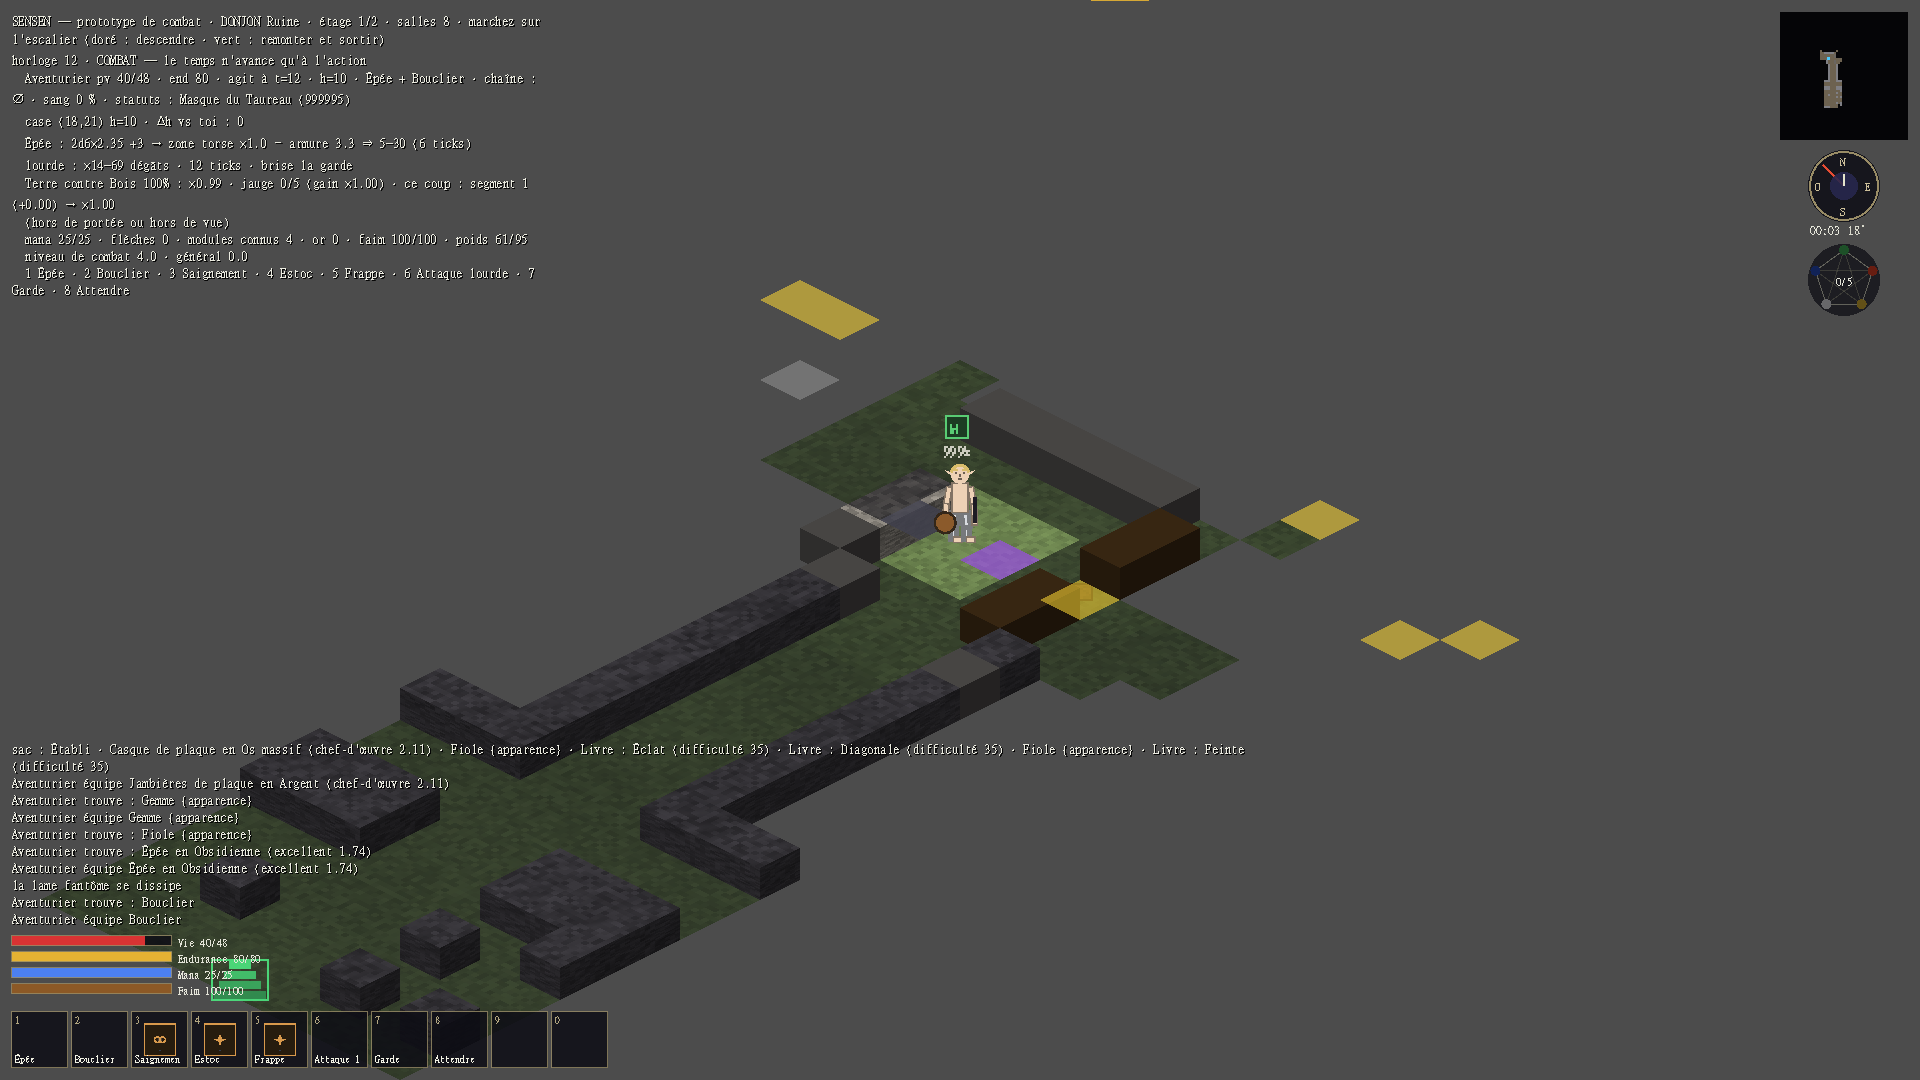
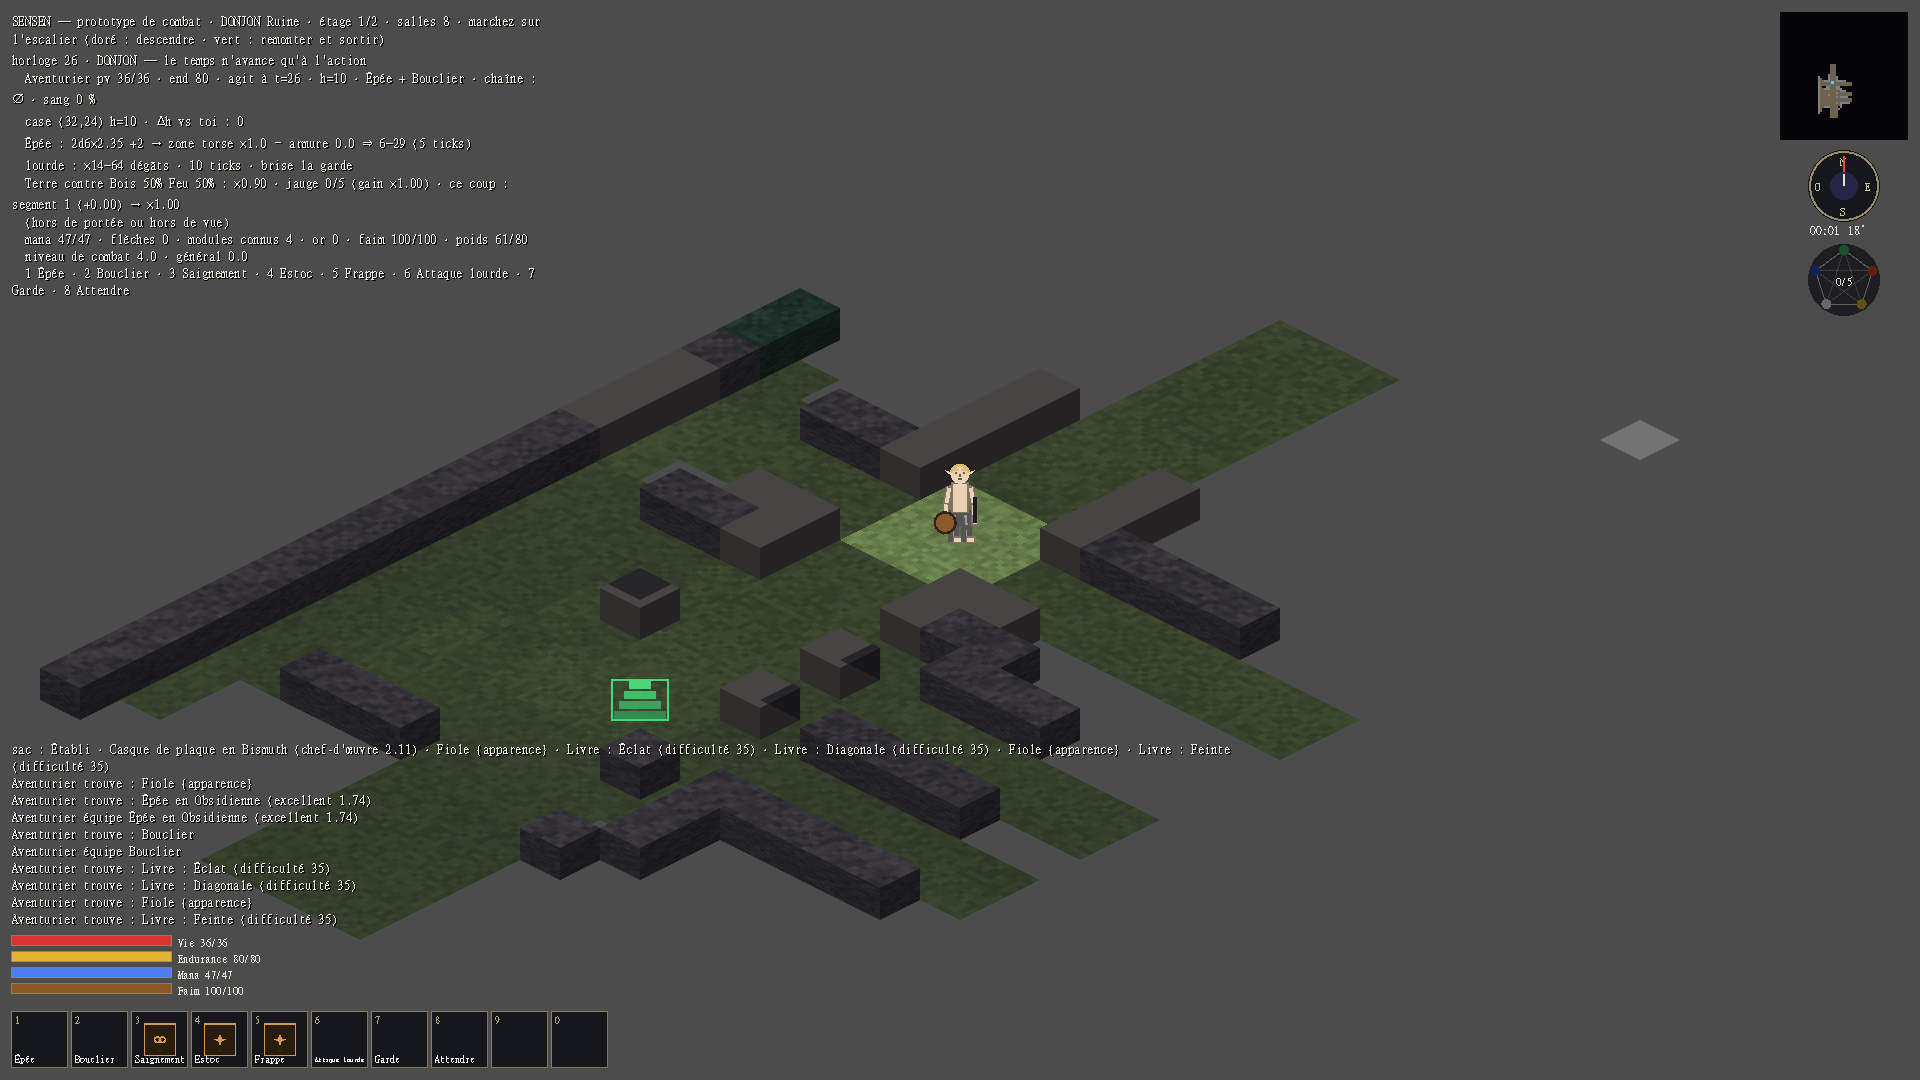
La hotbar coupait les noms a neuf caracteres : « Saignemen », « Attaque l »
Le commentaire de CASE promet qu'une case est assez large pour lire un
nom entier ; le dessin appelait nom.left(9). La police s'ajuste
maintenant a la largeur (10 vers 7) au lieu de couper le mot. Les trois
volets de la creation sont captures : ils laissent les deux tiers de
l'ecran vides, consigne dans A juger.

diff --git a/docs/08 - Technique/Écrans d'interface.md b/docs/08 - Technique/Écrans d'interface.md
@@ -126,6 +126,13 @@ Inventaire+équipement (avec poids), Craft (recettes des stations à portée, [[
 > **Instruction** : « refais toutes les captures d'écran, n'oublie pas remplir et équiper l'inventaire avant, pareil pour le composeur de sort, explorer avant la capture d'une cellule etc, qu'on voit le plus possible du jeu ». `capture.gd` gagne de quoi **jouer la scène** avant de la photographier : `--loot N` (assemble N objets et équipe ceux qui ont un slot), `--modules` (apprend tout le catalogue), `--sorts "forme,noyau|…"` (compose des capacités dans la barre), `--marcher N`, `--talents`, et surtout **`--graine N`** — les captures tombaient jusque-là dans un monde tiré au hasard à chaque lancement, ce qui explique le « village » qui n'en était pas un et la carte de cendres : `main.gd` respecte désormais une graine imposée au lieu de la réécrire. `--carte` est déplacé en toute fin de recette pour que la carte montre ce qui a été exploré, et `--village` cherche jusqu'à 70 cellules en exigeant **au moins quatre habitants**. Toutes les scènes de monde partagent la graine 4242 : même géographie d'une image à l'autre.
 
 
+> [!bug] Corrigé le 2026-09-01 — les noms de la hotbar étaient coupés à neuf caractères
+> La constante `CASE := 56.0` porte le commentaire « assez large pour lire *Étincelle* ou *Attaque* sans les tronquer », mais le dessin appelait `nom.left(9)` : on lisait « Saignemen » et « Attaque l ». La police s'ajuste maintenant à la largeur de la case (10 → 7, `_nom_ajuste`) au lieu de couper le mot. Vérifié à l'écran.
+
+> [!question] À juger — l'écran de création flotte dans le vide (2026-09-01)
+> Depuis la scission en trois volets, chaque volet n'a plus que huit à vingt lignes dans une colonne de 200 px sur une fenêtre de 1920 : **les deux tiers inférieurs de l'écran sont noirs**, l'avatar et le portrait restent petits et logés dans le tiers supérieur. Deux issues, au choix du designer : élargir la colonne et agrandir le personnage jusqu'à occuper la hauteur, ou étaler chaque volet sur deux colonnes. Capture : `capture.tscn -- --creation --volet 0|1|2`.
+
+
 ## Liens
 - **Dépend de** : [[Direction artistique]], [[Localisation]]
 - **Alimente** : [[Combat tactique sur grille]], [[Craft compositionnel]], [[Habitat des PNJ]], [[Entretien et taxes]]
